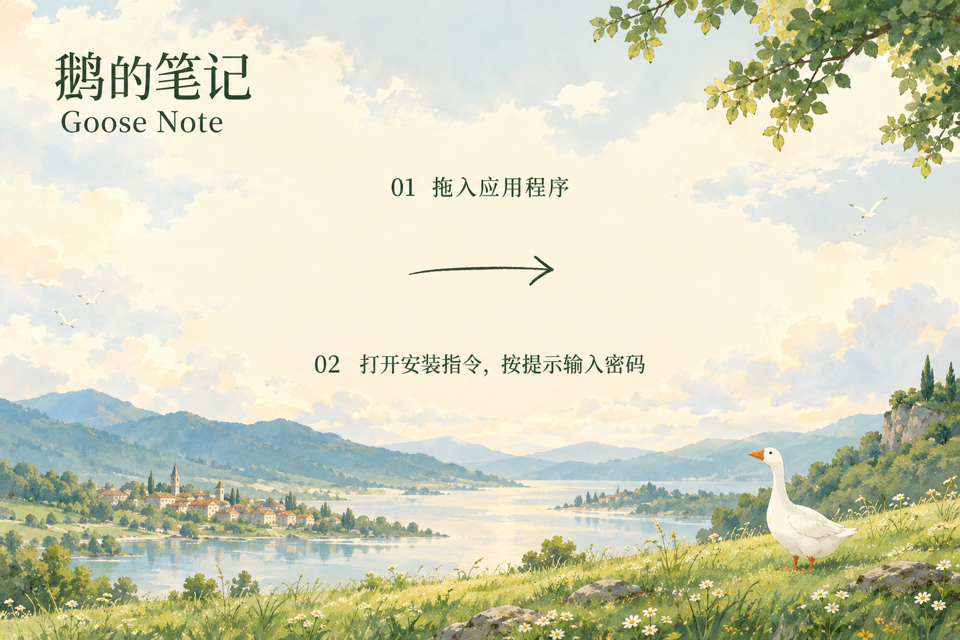
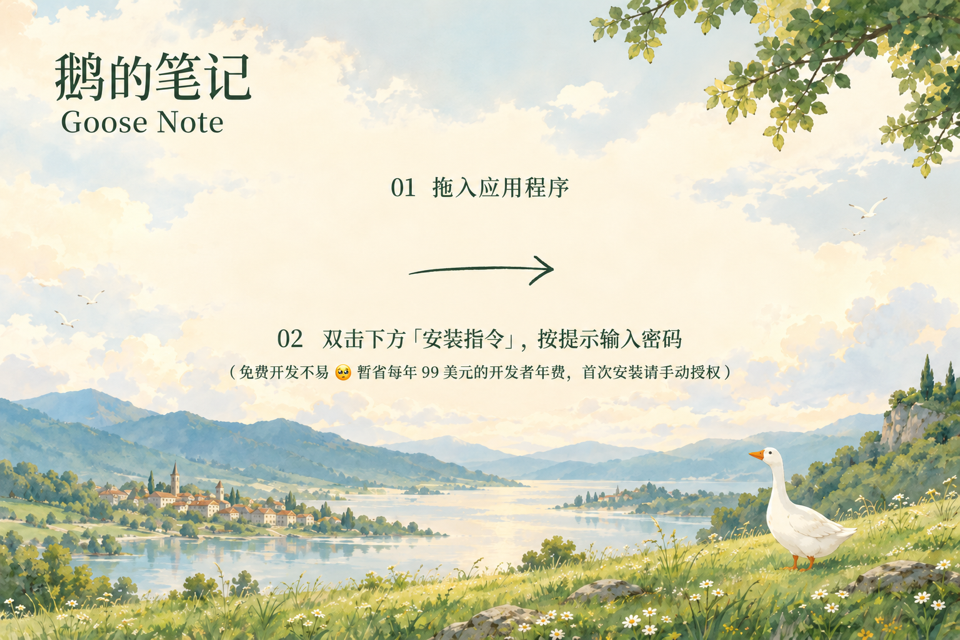
fix: clean up DMG layout and clarify authorization step

diff --git a/electron/installer-art.md b/electron/installer-art.md
@@ -6,4 +6,6 @@
 
 > Create a polished macOS DMG installer background illustration for Goose Note, landscape 3:2. Full bleed original hand painted Japanese animated fantasy film aesthetic, gentle pastoral watercolor, airy cream sky, soft sage grass at bottom, distant clouds, small charming white goose at lower right with orange bill. Extremely restrained uncluttered scene. It will sit behind real Finder icons, so do NOT draw any app icons or folders or buttons. Leave large quiet pale cream areas around x=25% y=43%, x=75% y=43%, x=50% y=77% for actual icons. Integrated typography exactly: top left '鹅的笔记', underneath 'Goose Note'. At y=25% centered '01  拖入应用程序'; a thin hand drawn arrow at center x=50% y=43% pointing right. At y=63% centered '02  打开安装指令，按提示输入密码'. Text must be clearly legible dark forest green, modern understated typography, not brush lettering. No other text, no window chrome, no mockup, no busy forest, no copyrighted characters. Artwork fills entire background edge to edge. Professional warm charming design.
 
-安装指令是可阅读的本地 shell 脚本，使用 macOS 系统授权；不联网，不保存密码，不改动笔记。未签名指令自身仍可能需要在系统设置手动放行，说明见安装帮助。实际下载后的 Gatekeeper、Finder 排版和授权交互须在目标 macOS 上另行验证，不能用本地打包结果替代。
+安装指令是可阅读的本地 shell 脚本，使用 macOS 系统授权；不联网，不保存密码，不改动笔记。未签名指令自身仍可能需要在系统设置手动放行，说明见 [macOS 安装说明](../docs/macos-installation.md)。实际下载后的 Gatekeeper、Finder 排版和授权交互须在目标 macOS 上另行验证，不能用本地打包结果替代。
+
+本次背景修订：第二步改为“双击下方「安装指令」，按提示输入密码”，下方增加括号小字“免费开发不易 🥺 暂省每年 99 美元的开发者年费，首次安装请手动授权”。不承诺更新或重新下载后无需再次授权。DMG 不再展示安装帮助文件；隐藏背景、卷图标与 DS_Store 在 afterPack 阶段通过 dmgbuild 的 position 条目移到窗口右侧之外，不改用户 Finder 偏好。

diff --git a/BUILD-ARTIFACTS.md b/BUILD-ARTIFACTS.md
@@ -49,4 +49,4 @@ node scripts/build-ci-installers.mjs mac arm64
 
 ## macOS 安装引导链路
 
-Actions 的两个 macOS 架构均通过 `prepare-electron-pack.mjs` 复制 DMG 背景、安装指令和帮助，随后由 `build-ci-installers.mjs` 打包，并在 BUILD.json 写入 `macInstallHelper: 1`。Release 只有在两个架构均声明此能力时才介绍安装指令；下载页读取 Release 中的能力标记，旧版未标记的包仍使用手动授权说明。Release 与下载页共用 `scripts/macos-install-copy.mjs` 文案。Homebrew 只安装应用，单独给出手动授权路径。
+Actions 的两个 macOS 架构均通过 `prepare-electron-pack.mjs` 复制 DMG 资源，展示背景与安装指令（帮助文件不再放入 DMG），随后由 `build-ci-installers.mjs` 打包，并在 BUILD.json 写入 `macInstallHelper: 1`。Release 只有在两个架构均声明此能力时才介绍安装指令；下载页读取 Release 中的能力标记，旧版未标记的包仍使用手动授权说明。Release 与下载页共用 `scripts/macos-install-copy.mjs` 文案。Homebrew 只安装应用，单独给出手动授权路径。
